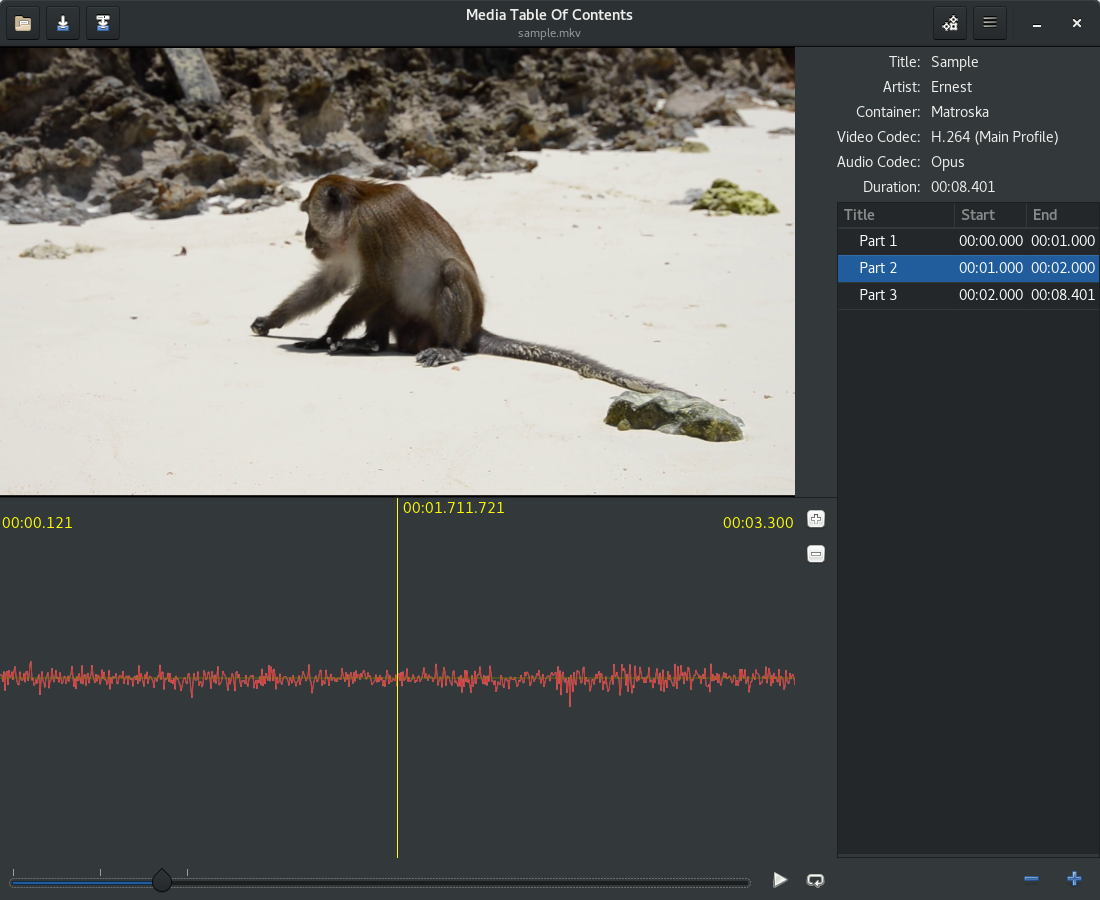
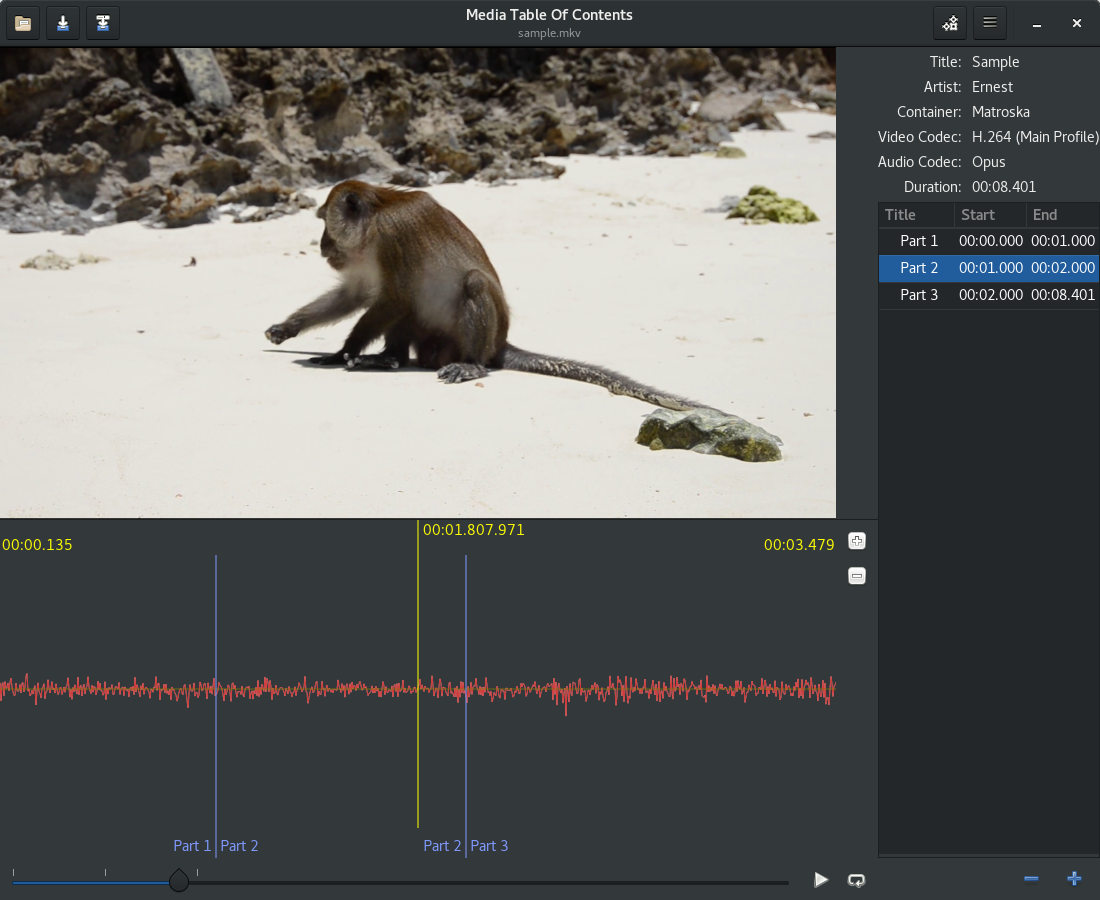
Update readme and screenshots (#83)

diff --git a/README.md b/README.md
@@ -5,8 +5,7 @@ file into chapters. It runs on Linux and Windows and should also work on macOS.
 You might also be interested in [media-toc-player](https://github.com/fengalin/media-toc-player):
 a media player with a table of contents.
 
-**media-toc** is not complete yet, see the [Status section](#status) below.
-Of course, you can contribute to the project if you find it interesting.
+**media-toc** is not complete yet, see the [features list](#features) below.
 
 ## <a name='ui'></a>Screenshots
 ### UI with a video file
@@ -18,19 +17,17 @@ Of course, you can contribute to the project if you find it interesting.
 ### Waveform showing 5.1 audio channels
 ![media-toc Waveform 5.1 audio channels](assets/waveform_5.1_audio_channels.png)
 
-## <a name='status'></a>Status
-At the moment, **media-toc** can:
+## <a name='features'></a>Features
 
-- Open a media file: display metadata from the media, the cover image, the first video frame,
-the chapters list and marks at the beginning of each chapter on the timeline.
-- Play/Pause the audio and video, draw the audio waveform and select current chapter in the list
-while playing.
+- Play/Pause an audio/video media
+- Select the streams to play.
+- Draw the audio waveform and chapters boundaries.
 - Seek in the media by left clicking on the waveform, on the timeline or in the chapters list.
 - Play from a position until the end of current time frame by right clicking on the waveform
 at the starting position in paused mode.
-- Select the stream to play.
 - Zoom in/out the waveform on the time axis.
 - Add/remove a chapter.
+- Play current chapter in a loop.
 - Export the table of contents to:
 	* A Matroska container. Currently, this is possible only if the input streams are compatible
 	with Matroska containers. I'll add an UI to allow converting streams later. This also requires
@@ -164,10 +161,8 @@ brew install gtk+3 gstreamer gst-plugins-{base,good,bad,ugly} gst-libav
 - Install the development toolchain, GTK and GStreamer<br>
 Note: for a 32bits system, use `mingw-w64-i686-...`
 ```
-pacman --noconfirm -S mingw-w64-x86_64-gtk3 \
-	mingw-w64-x86_64-gstreamer mingw-w64-x86_64-gst-plugins-base \
-	mingw-w64-x86_64-gst-plugins-good mingw-w64-x86_64-gst-plugins-bad \
-	mingw-w64-x86_64-gst-plugins-ugly mingw-w64-x86_64-gst-libav
+pacman --noconfirm -S mingw-w64-x86_64-gtk3 mingw-w64-x86_64-gstreamer \
+	mingw-w64-x86_64-gst-plugins-{base,good,bad,ugly} mingw-w64-x86_64-gst-libav
 ```
 
 - Launch the [rustup installer](https://www.rustup.rs/).
